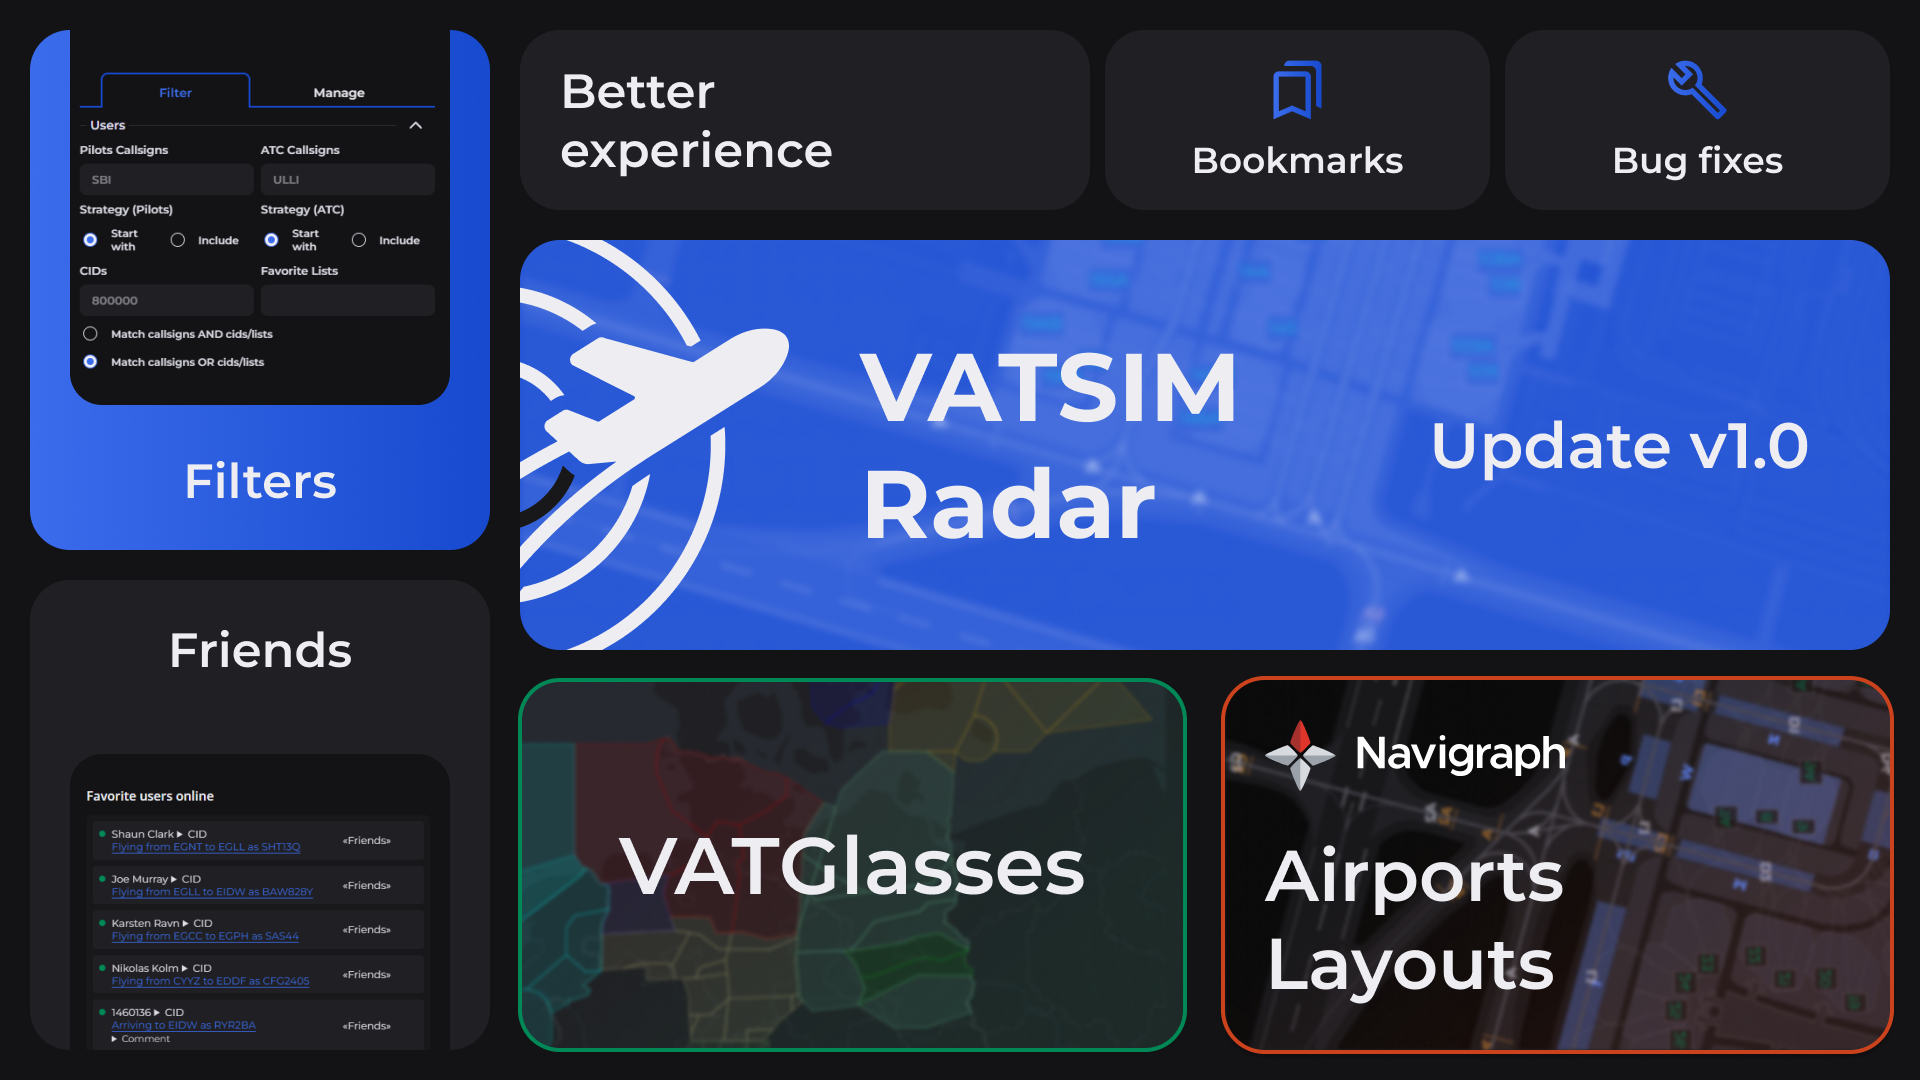
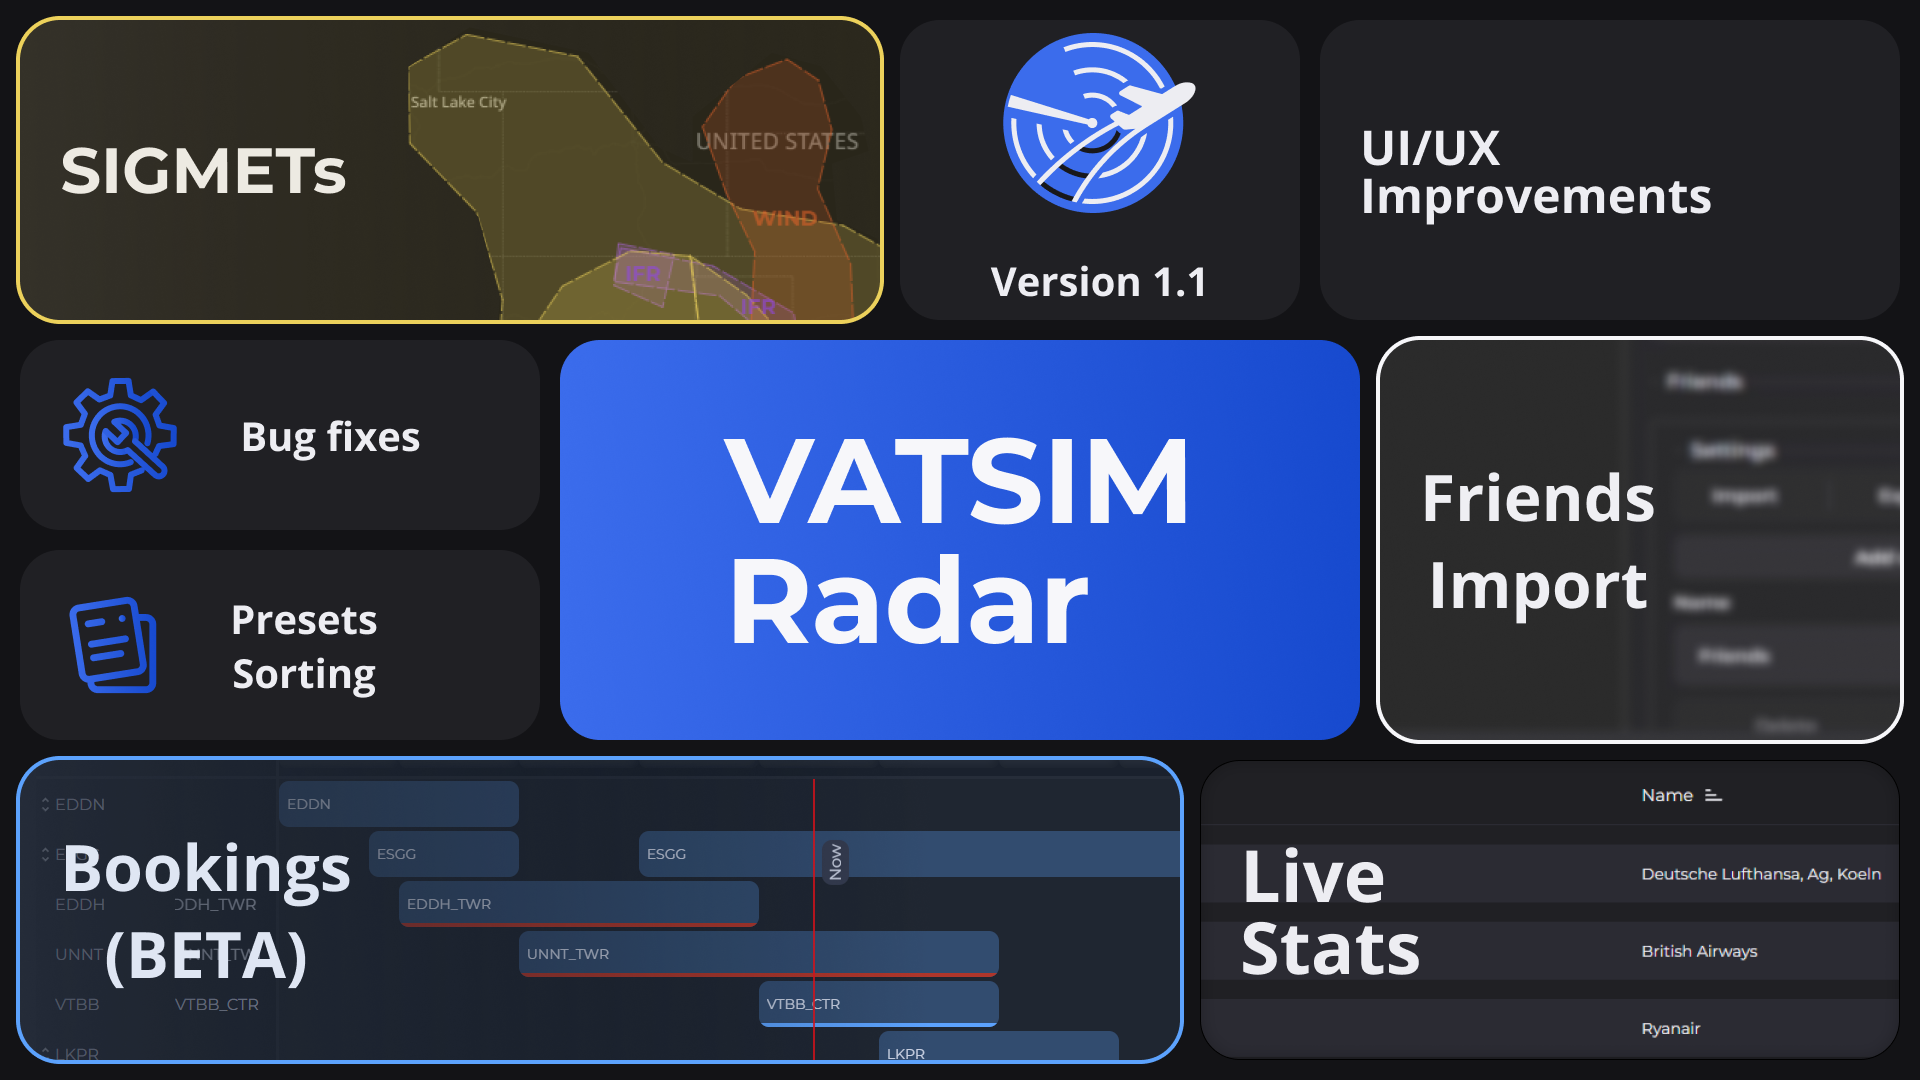
Update popup, roadmap update

diff --git a/src/components/views/ViewUpdatePopup.vue b/src/components/views/ViewUpdatePopup.vue
@@ -109,23 +109,73 @@ const title = useTemplateRef('title');
 
 const update: Update = {
     type: 'major',
-    name: '1.0.2',
-    height: 'auto',
+    name: '1.1.0',
+    height: '580px',
     features: [
         {
+            title: 'Welcome to newest VATSIM Radar update!',
+            image: images['../../assets/update/presentation.png'],
+            imageRatio: '1920 / 1080',
+            description: `This update is packed with a bunch of new features that were requested from our fellow community.`,
+            list: [
+                'SIGMETs: view them directly on map or on separate page. AIRMETs are also available for US!',
+                'Bookings: view Bookings on map and timeline on separate page - made by Noah Elijah Till',
+                'Stats: view live VATSIM data',
+                'Many other features, UI/UX improvements and bug fixes',
+            ],
+        },
+        {
+            title: 'SIGMETs',
+            image: images['../../assets/update/sigmets.png'],
+            description: `Provided by Aviation Weather Center, SIGMETs are now available in VATSIM Radar!`,
+            list: [
+                'Enable SIGMETs for main map - or view them on separate page',
+                'Hide different SIGMETs types',
+                'View US AIRWAYs - not available for other continents, at least for now',
+                'Click on SIGMET to view additional details',
+                'Enable them now in Map Layers',
+            ],
+        },
+        {
+            title: 'Bookings (BETA)',
+            image: images['../../assets/update/bookings.png'],
+            description: `Developed by Noah Elijah Till, Bookings are finally available in VATSIM Radar!`,
+            list: [
+                'View timeline on separate page',
+                'Click on airport group to view bookings by position',
+                'View all coming bookings on map by setting their date',
+                'Bookings are also displayed on map (TWR and below for now)',
+                'This feature should now be considered BETA - more improvements are coming later',
+            ],
+        },
+        {
+            title: 'Live Stats',
+            description: `Long-time requested SimAware feature is making it's way to VR!`,
+            image: images['../../assets/update/stats.png'],
+            list: [
+                'View top Airports, Airlines, Aircraft, Routes',
+                'View ATC and Pilots online',
+                'Sort columns if needed',
+                'Open a specific route on map or filter it by airline - using only one click',
+            ],
+        },
+        {
             title: 'Quality of Life',
-            description: 'Welcome to newest VATSIM Radar update! This is a small one, but we wanted to highlight some things.<br><br>Also, make sure to visit our Discord for full changelog: <a href="https://vatsim-radar.com/discord" target="_blank" class="__link">https://vatsim-radar.com/discord</a>',
+            description: 'Visit our <a href="/discord" target="_blank">Discord</a> for a full changelog',
             image: images['../../assets/update/quality.png'],
             list: [
-                'New map layer instead of CartoDB, available in Light and Detailed variants. This layer renders <strong>on your device</strong>, so if you experience performance issues after this update - switch to Basic layer instead',
-                'Satellite layer is back - but has quality data for USA only. Better Satellite is available for Patreon subscribers since we have to pay money for it. If you know a better free unlimited satellite layer - let us know',
-                'Updated VA CS parsing logic - VA will now require to be present in GNG fictional airlines list (or in VATSIM Radar Data repository)',
-                'METARs will now be fetched from VATSIM API',
-                'Small bug fixes',
+                'You can now sort presets (map settings, filters, bookmarks)',
+                'You can now import favorite lists - even from VATSpy config!',
+                'Added relative scale indicator',
+                'Updated default Map Layer data',
+                'Small performance and data consumption improvements',
+                'Diverting flight state by Noah Elijah Till',
+                'New aircraft icons from DotWallop',
+                'Many other improvements and bug fixes',
             ],
         },
     ],
-    active: false,
+    active: true,
 };
 
 const shownFeatureIndex = ref(0);

diff --git a/src/pages/roadmap.vue b/src/pages/roadmap.vue
@@ -266,7 +266,7 @@ const roadmap = reactive<Roadmap[]>([
         title: 'Stage 3',
         items: [
             {
-                title: 'Pilot/airport mouse right click menu',
+                title: 'Pilot/airport mouse context menu',
             },
             'Proper Github local setup',
             {
@@ -280,7 +280,7 @@ const roadmap = reactive<Roadmap[]>([
             {
                 title: 'Friends export/import',
                 description: 'Including VATSpy-like import',
-                status: 'todo',
+                status: 'completed',
             },
             {
                 title: 'Events/ATC Bookings 2.0',
@@ -288,16 +288,16 @@ const roadmap = reactive<Roadmap[]>([
             },
             {
                 title: 'ATC Bookings',
-                status: 'in-progress',
+                status: 'completed',
             },
             {
                 title: 'SIGMETs/AIRMETs',
-                status: 'next',
+                status: 'completed',
             },
             {
                 title: 'Basic Stats',
                 description: 'Popular now etc',
-                status: 'next',
+                status: 'completed',
             },
             'Hoppie integration',
             {
@@ -333,6 +333,7 @@ const roadmap = reactive<Roadmap[]>([
             'METAR request',
             'Proper estimate arrival time',
             'NOTAMs grouping',
+            'Distance measuring tool',
         ],
     },
     {
@@ -350,12 +351,7 @@ const roadmap = reactive<Roadmap[]>([
             'ECFMP integration',
             '3D map view',
             'Twitch/streamers integration',
-            'Distance measuring tool',
             'Aircraft collision prediction',
-            {
-                title: 'Move overlays across the map',
-                description: 'This was moved to "considering" from "Stage 2" because of mixed feedback and high development cost',
-            },
             {
                 title: 'Gates status in airport popup/dashboard',
                 description: 'It is to be decided do we really need this and where specifically',

diff --git a/CHANGELOG.md b/CHANGELOG.md
@@ -1,103 +1,85 @@
 # Changelog
 
-# [1.1.0-rc.2]
+# [1.1.0-final]
 
-- (QA) You can now separately disable airmets
+Welcome to newest VATSIM Radar update! This one is packed with a bunch of features that were requested from our fellow community.
+
+## Highlights
+
+🌩 SIGMETs / AIRMETs (US)
+📅 ATC Bookings
+📊 Live Stats
+📥 Friends Import
+📂 Presets Sorting
+✅ UI/UX Improvements and bug fixes
+
+### SIGMETs
+
+Enable SIGMETs for main map - or view them on separate page. You can also hide different types and click on SIGMETs to show additional details.
+
+AIRMETs are also available for US. You can enable SIGMETs on map in Map Layers menu.
+
+This data was provided by [Aviation Weather Center](https://aviationweather.gov/).
+
+### Bookings (BETA)
+
+Developed by Noah Elijah Till, Bookings are finally available in VATSIM Radar!
+
+On separate page you can view a timeline with an ability to click on an airport to open facilities list. From here, you can also view all coming bookings on map.
+
+They are also displayed on map (TWR and below) 1 hour before they come online. 
+
+This feature should now be considered BETA - more improvements are coming later.
+
+### Live Stats
+
+With this long-time requested SimAware feature, you can view top Airports, Airlines, Aircraft, Routes, as well as ATC/Pilots online.
+
+You can also sort by various columns, and filter map by some of the data you choose.
+
+## Features and Improvements
+
 - Favorite count in a single list was increased to 200 from 50
-- Fixed favorite add if it was exceeding max count
 - Updated default map layer data
-
-# [1.1.0-rc.1]
-
-## Bookings
-
-- Fixed a bug where wrong date inputs would show weird bookings page
-- Showing popup of specific time of booking in bookings page
-- Removed bookings from airport view
-
-# [1.1.0-beta.3]
-
-- Renamed ATIS to ATC Information in ATC Overlay
-- Fixed R44 icon size
-- Removed duplicate ATC from VATGlasses popup
-- (next) Added ATC rating and facility to ATC stats 
-- (next) Excluded ATIS from ATC online
-- Added relative scale indicator to map
-- Added Map Setting that prevents VR to update center/zoom in address bar
-- VATGlasses has been moved to the top of general as more frequently used setting
-- Added import (even from VatSpy!)/export/copy of Favorite (Friends) in User Settings
-
-# [1.1.0-beta.2]
-
-- Added sorting support for all presets
-
-# [1.1.0-beta.1]
-
-- Added ATC Bookings by Noah. Bookings on map seem not to work for now
-- Airport names in destination card will now be limited by 2 lines
-- (QA) Fixed some approach labels not displaying on "next"
-- Added "Z" suffix to time in events page if time is local
-- Added single event page SEO optimization
-- Fixed an issue when controller ATIS was appearing incorrectly in VG mode
-- Fix delay when tracking aircraft
-- Fixed an issue when local timezone was not displayed in VATSIM Events page
-- (QA) You can now edit SIGMETs data displayed
-- (QA) SIGMETs now show labels
-
-# [1.1.0-alpha.8]
-
-- Fixed gates not showing up for some airports when using Navigraph
-
-# [1.1.0-alpha.7]
-
-- Fixed "next" performance and VG combined mode issues
-- Clicking on aircraft callsign will now also open it's popup in Airport Dashboard
-- Fixed aircraft popup on mobile version of Airport Dashboard
-- Fixed this annoying issue when airport layouts (and more things) were just not loading on initial map open unless you move it
-- Based on severe community feedback, changed "atc" in the footer to "ATC"
-- Applied small performance improvements on each map update
-- Disabled zoom to CTR/FSS facilities
-- Fixed the way pilots without flight plans display in Favorite tab
-- Unknown airports ICAO will now be properly displayed in flight plan window
-- Added indication of no flight plan uploaded to pilot popup
-- Added auto-selection of list to "Add to Favorites" popup if you only have one list
-- Removed duplicate runway identifier from thresholds
-- Restored north reset icon for mobile
-- Fixed airport default zoom change to floating number breaking whole map settings save
-- Added 10% opacity as possible for weather/layers opacity
-- Fixed invisible region in popups list
-- Increased emergency color priority over enabled tracks
-
-# [1.1.0-alpha.6]
-
+- Added Where2Fly integration into airports popup
+- Changed data projection to EPSG:4326, thus improving data consumption, improving performance and making VR easier to work with for developers in most cases where EPSG:EPSG:3857 will now only be used under the hood
+- Added diverting flight state by MindCollaps
 - New icons from DotWallop (B350, C5M, C206, DR40, E3CF, E295, JS41, K35E, ME08, P212, PC21, R44, R66, SB20, SH36, SIRA, VC10, VISC)
 - Added model matching (C210 -> C206, E290 -> E295, E3TF -> E3CF, K35R -> K35E)
+- Added 10% opacity as possible for weather/layers opacity
+- Restored north reset icon for mobile
+- Removed duplicate runway identifier from thresholds
+- Added auto-selection of list to "Add to Favorites" popup if you only have one list
+- Added indication of no flight plan uploaded to pilot popup
+- Unknown airports ICAO will now be properly displayed in flight plan window
+- Applied small performance improvements on each map update
+- Based on severe community feedback, changed "atc" in the footer to "ATC"
+- Added "Z" suffix to time in events page if time is local
+- Added single event page SEO optimization
+- Airport names in destination card will now be limited by 2 lines
+- Added sorting support for all presets
+- Added import (even from VatSpy!)/export/copy of Favorite (Friends) in User Settings
+- VATGlasses has been moved to the top of general as more frequently used setting
+- Added relative scale indicator to map
+- Renamed ATIS to ATC Information in ATC Overlay
+- Added Map Setting that prevents VR to update center/zoom in address bar
+- Removed duplicate ATC from VATGlasses popup
 
-# [1.1.0-alpha.5]
+## Bug Fixes
 
-- Diverting flight state by MindCollaps
-
-# [1.1.0-alpha.4]
-
-- Changed data projection to EPSG:4326, thus improving data consumption, improving performance and making VR easier to work with for developers in most cases where EPSG:EPSG:3857 will now only be used under the hood
-
-# [1.1.0-alpha.3]
-
-- Added Where2Fly integration into airports popup
-
-# [1.1.0-alpha.2]
-
-- SIGMETs layer and page have been added
-- (QA) Updates on Stats
-  - Airports tab is put before airlines
-  - Added Aircraft stats
-  - Fixed airports names in routes stats
-  - Added time online to pilots
-  - Removed multiple sort from all tables, excluding airlines and pilots
-
-# [1.1.0-alpha.1]
-
-- Stats tab has been put into operations. View most popular airports, airlines and routes, as well as currently online pilots and ATC
+- Fixed favorite add if it was exceeding max count
+- Increased emergency color priority over enabled tracks
+- Fixed invisible region in popups list
+- Fixed airport default zoom change to floating number breaking whole map settings save
+- Fixed the way pilots without flight plans display in Favorite tab
+- Disabled zoom to CTR/FSS facilities
+- Fixed this annoying issue when airport layouts (and more things) were just not loading on initial map open unless you move it
+- Fixed aircraft popup on mobile version of Airport Dashboard
+- Clicking on aircraft callsign will now also open it's popup in Airport Dashboard
+- Fixed an issue when local timezone was not displayed in VATSIM Events page
+- Fix delay when tracking aircraft
+- Fixed an issue when controller ATIS was appearing incorrectly in VG mode
+- Fixed R44 icon size
 
 # [1.0.3-2]
 
